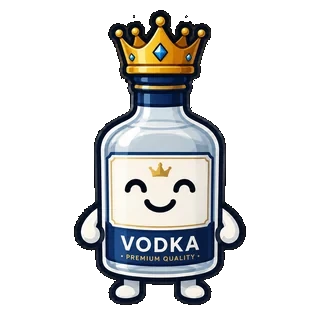
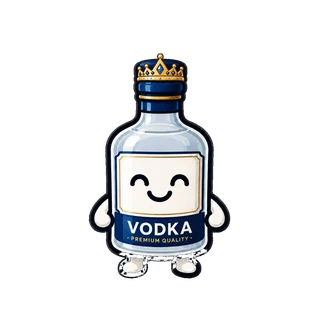
Replace Vodka tier mascot artwork
Background removed via corner-seeded flood-fill, resized to 320x320
to match the other 7 tier mascots.

Changed region(s): [[0.2188, 0.0312, 0.7812, 0.9688]]

diff --git a/.agents/active.md b/.agents/active.md
@@ -1,29 +1,26 @@
 # Active Context
 
 ## Current Task
-- Deploy the Absinthe rainbow-color change to production (needs `npx wrangler deploy` from user's terminal)
+- Deploy pending changes to production (rainbow Absinthe + new Vodka mascot art)
 
 ## Done Last Session
-- Absinthe tier (ELO >= 2100) fully deployed to production and verified live
-- Added rainbow gradient treatment for Absinthe specifically (top/rarest rank):
-  - New `--gradient-tier-absinthe` CSS var in tailwind.css (7-stop rainbow linear-gradient)
-  - `useEloTier.ts` gained `gradient?` field on TierInfo plus two shared helpers,
-    `tierTextStyle()` (gradient background-clip text, falls back to solid color)
-    and `tierSwatchStyle()` (gradient background, falls back to solid backgroundColor)
-  - Applied via the helpers in `EloBadge.vue` (used everywhere — member list,
-    ranking, hall of fame, checkin, profile, match detail), `HomeView.vue`
-    tier showcase strip, and `ManageMembersView.vue` starting-tier picker
-  - Every other tier unaffected — helpers fall back to the existing solid colorVar
-  - Frontend type-check and build both clean
+- Rainbow Absinthe tier (ELO >= 2100) implemented, committed (4de6f11) — still pending deploy
+- Replaced Vodka tier mascot art: user dropped a new bottle image at
+  `frontend/public/tiers/vodka.png`, background removed via the same
+  corner-seeded flood-fill script used for Absinthe, resized to 320x320,
+  saved as `vodka.webp` (overwriting the old one) and the source .png deleted
+- Frontend rebuilt clean
 
 ## Next Steps
-- User runs `npx wrangler deploy` from their terminal to push the rainbow-color change live
+- Commit + push the new vodka.webp
+- User deploys to Cloudflare Workers: `export CLOUDFLARE_API_TOKEN="your-token" && cd "/Users/tabby/For work/niddeaw_bmt" && npx wrangler deploy`
 
 ## Blockers
-- Wrangler auth not available in non-interactive environment; user must deploy from their own terminal with API token
+- none
 
 ## Last Updated
 - Claude Code — 2026-08-04
 
 ## Checkpoint (auto)
-- 01:54 — edited active.md
+- 02:17 — edited active.md
+- 01:55 — edited active.md
